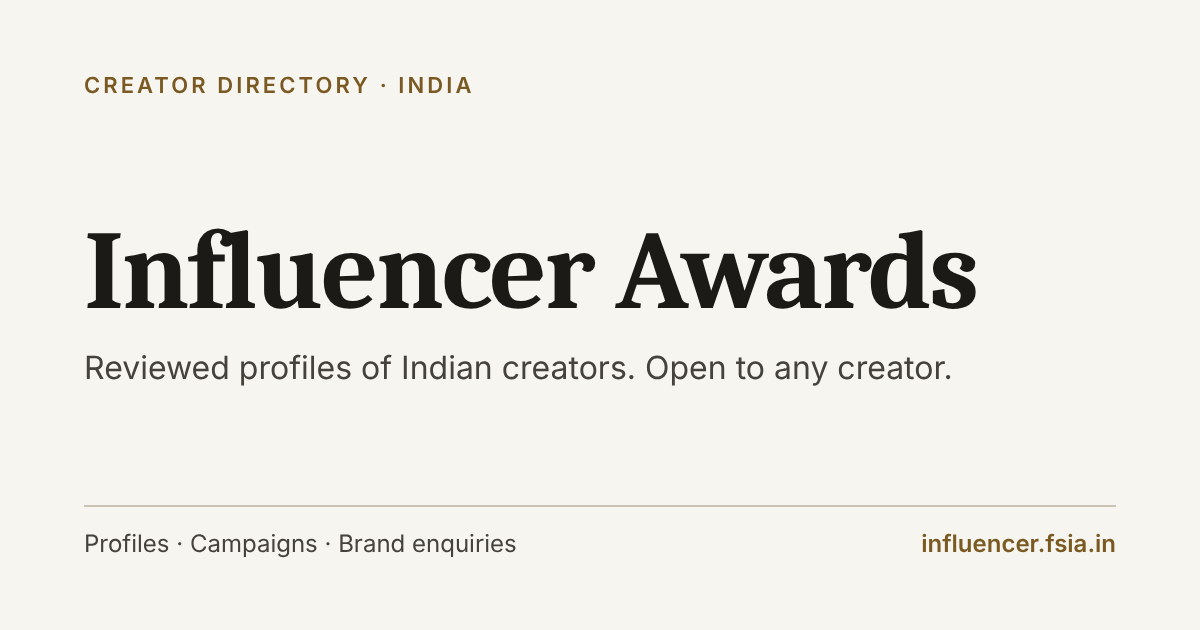
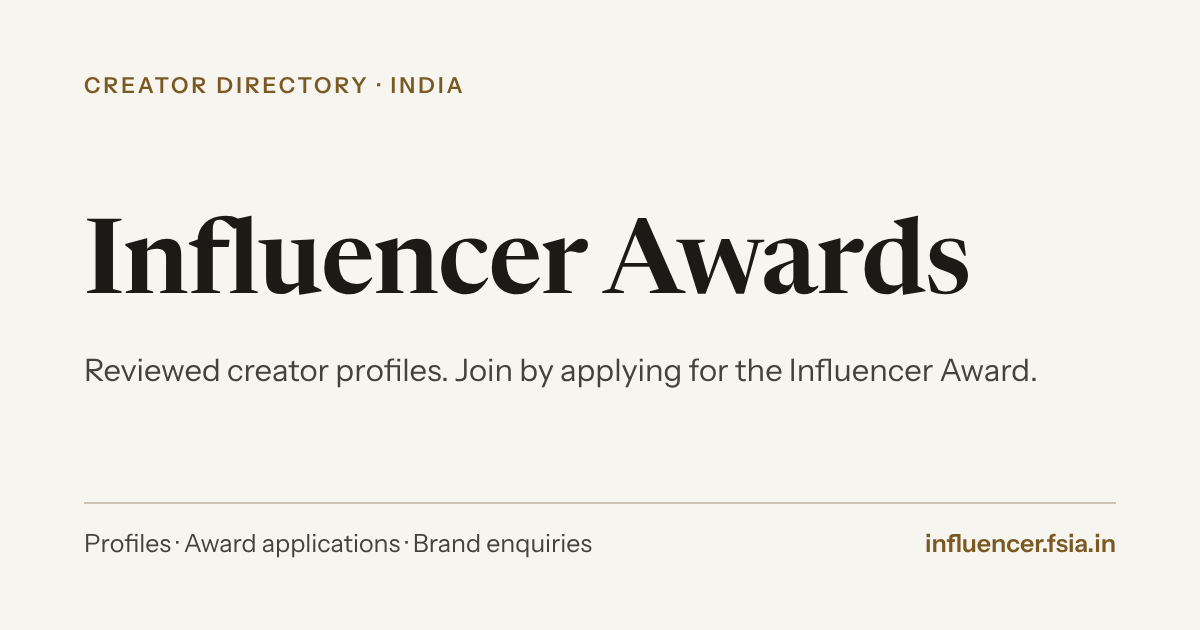
Join by applying for the Influencer Award
Boss (2026-10-27): creators join the platform by applying for the
Influencer Award; after the awards it opens to every creator.

- JOIN_RULE and APPLY_LABEL ("Apply for the award") in
  src/content/awards.ts, used by every join button and explanation
- Home, join page, Star India, directory, footer, FAQ, page titles
  and descriptions no longer say "any creator can join" or "you do
  not need the award"
- Contact topic "Award applications"; share image and settings
  subtitle updated
- Copy prepared and tested in the audit thread, merged with the
  polished layout

Claude-Session: https://claude.ai/code/session_01MeCksyHuGyuqhaMrwZFcmZ

diff --git a/src/components/HomeTab.tsx b/src/components/HomeTab.tsx
@@ -2,7 +2,7 @@ import React, { useMemo, useState } from "react";
 import { ArrowRight, Search } from "lucide-react";
 import { TabId } from "../seo";
 import { BRAND_NAME } from "../content/brand";
-import { AWARD, AWARD_NAME, AWARD_PERKS, ELIGIBLE_NICHES } from "../content/awards";
+import { APPLY_LABEL, AWARD, AWARD_NAME, AWARD_PERKS, ELIGIBLE_NICHES } from "../content/awards";
 import type { ProfileView } from "../lib/profile";
 import ProfileCard from "./ProfileCard";
 import Photo from "./Photo";
@@ -23,7 +23,7 @@ interface HomeTabProps {
 }
 
 const STEPS = [
-  { title: "A creator applies", text: "The form asks for their niche, city, audience figures, photos and contact details. Applying is free." },
+  { title: "A creator applies for the award", text: "The form asks for their niche, city, audience figures, photos and contact details. Applying is free." },
   { title: "Our team reviews it", text: "We read every application and check the creator's public social profiles before approving it." },
   { title: "The profile is published", text: "Approved creators appear in the directory with what they submitted. We do not add numbers or claims of our own." },
   { title: "Corrections are welcome", text: "Creators can ask us to update or remove their profile at any time through the contact page." }
@@ -107,8 +107,9 @@ export default function HomeTab({ profiles, status, onNavigate, onSelectProfile,
               Indian creators, reviewed by our team before they are listed
             </h1>
             <p className="lede max-w-xl">
-              {BRAND_NAME} is a public directory of creators from across India. Any creator can apply for a free profile, which
-              goes live once our team approves it. Brands browse by niche and city, then send us an enquiry.
+              Creators in India join {BRAND_NAME} by applying for the {AWARD_NAME}, and get a public profile once our team
+              approves it. Brands search the directory by niche and city and send us an enquiry. After the awards, the
+              platform opens to every creator.
             </p>
             <HeroSearch onBrowse={onBrowse} />
             <div className="flex flex-wrap items-center gap-x-6 gap-y-3 pt-1">
@@ -126,12 +127,12 @@ export default function HomeTab({ profiles, status, onNavigate, onSelectProfile,
         <div className="page grid md:grid-cols-2 md:divide-x divide-y md:divide-y-0 divide-line">
           <div className="py-8 md:py-10 md:pr-10 space-y-3">
             <h2 className="eyebrow">For creators</h2>
-            <p className="font-display text-[1.5rem] leading-snug text-ink">Get a free public profile that brands can find.</p>
+            <p className="font-display text-[1.5rem] leading-snug text-ink">Apply for the {AWARD_NAME} to join.</p>
             <p className="text-ink-2">
-              Apply in about two minutes. Our team reviews each application before it is published, and you can ask for changes at any time.
+              Applying is free and takes about two minutes. Our team reviews every application; approved creators get a public profile that brands can find.
             </p>
             <div className="flex flex-wrap items-center gap-x-6 gap-y-3 pt-1">
-              <TabLink tab="apply" onNavigate={onNavigate} className="btn btn-primary">Join as a creator</TabLink>
+              <TabLink tab="apply" onNavigate={onNavigate} className="btn btn-primary">{APPLY_LABEL}</TabLink>
               <TabLink tab="membership" onNavigate={onNavigate} className="link">Membership plans</TabLink>
             </div>
           </div>
@@ -259,8 +260,8 @@ export default function HomeTab({ profiles, status, onNavigate, onSelectProfile,
               Open to creators in {ELIGIBLE_NICHES.slice(0, -1).join(", ").toLowerCase()} and {ELIGIBLE_NICHES[ELIGIBLE_NICHES.length - 1].toLowerCase()}, among other niches.
             </p>
             <div className="flex flex-wrap gap-3 pt-2">
-              <button type="button" onClick={onAwardEnquiry} className="btn btn-primary">Ask about the award</button>
-              <TabLink tab="apply" onNavigate={onNavigate} className="btn btn-secondary">Join as a creator</TabLink>
+              <TabLink tab="apply" onNavigate={onNavigate} className="btn btn-primary">{APPLY_LABEL}</TabLink>
+              <button type="button" onClick={onAwardEnquiry} className="btn btn-secondary">Ask about the award</button>
             </div>
           </div>
           <dl className="border-t border-line">

diff --git a/src/seo.ts b/src/seo.ts
@@ -41,10 +41,10 @@ export const ROUTES: RouteMeta[] = [
     path: "/",
     title: `Influencer Award & Creator Profiles in India | ${SITE_NAME}`,
     description:
-      `Browse reviewed profiles of Indian influencers, join as a creator, learn about the ${AWARD_NAME}, and send brand collaboration enquiries to our team.`,
+      `Browse reviewed profiles of Indian influencers, apply for the ${AWARD_NAME} to join, and send brand collaboration enquiries to our team.`,
     heading: "Indian influencer profiles, reviewed before they are published",
     intro:
-      `${SITE_NAME} is a creator directory for India. Any creator can join: once our team approves the application, they get a public profile with their category, city and work. The ${AWARD_NAME} is a separate award that creators can apply for. Brands browse those profiles, see open campaigns and send collaboration enquiries, which our team follows up directly.`,
+      `${SITE_NAME} is a creator directory for India. Creators join by applying for the ${AWARD_NAME}: once our team approves the application, they get a public profile with their category, city and work. After the awards, the platform opens to every creator. Brands browse those profiles, see open campaigns and send collaboration enquiries, which our team follows up directly.`,
     indexable: true,
     priority: "1.0",
     changefreq: "weekly"
@@ -57,7 +57,7 @@ export const ROUTES: RouteMeta[] = [
       "An interactive 3D gallery of published creator profiles. Move between sections and open any profile.",
     heading: "3D profile gallery",
     intro:
-      "An interactive 3D view of the published creator profiles. Move between sections with the arrows and open any creator to see their profile and work.",
+      "An interactive 3D view of the published creator profiles. Move between sections with the arrows and open a portrait to see the profile and work.",
     indexable: true,
     priority: "0.6",
     changefreq: "weekly"
@@ -91,12 +91,12 @@ export const ROUTES: RouteMeta[] = [
   {
     tab: "apply",
     path: "/join/",
-    title: `Influencer Registration in India | ${SITE_NAME}`,
+    title: `${AWARD_NAME} Application & Registration | ${SITE_NAME}`,
     description:
-      "Join as a creator and get a public profile. A free, three-step form; our team reviews every application.",
-    heading: "Join as a creator",
+      `Apply for the ${AWARD_NAME} to join and get a public profile. A free, three-step form; our team reviews every application.`,
+    heading: `Apply for the ${AWARD_NAME}`,
     intro:
-      "Joining is free, open to any creator, and takes about two minutes. Tell us your category, city and audience on Instagram or YouTube. Our team reviews each application; approved creators get a public profile that brands can browse, and can apply for paid brand collaborations. Creators in fashion, beauty, food, travel, tech, gaming and other niches are welcome from anywhere in India.",
+      `Creators join by applying for the ${AWARD_NAME}; after the awards, the platform opens to every creator. Applying is free and takes about two minutes. Tell us your category, city and audience on Instagram or YouTube. Our team reviews each application; approved creators get a public profile that brands can browse, and can apply for paid brand collaborations. Creators in fashion, beauty, food, travel, tech, gaming and other niches are welcome from anywhere in India.`,
     indexable: true,
     priority: "0.9",
     changefreq: "monthly"

diff --git a/src/content/awards.ts b/src/content/awards.ts
@@ -3,14 +3,19 @@
 
 import { AWARD_NAME } from "./brand";
 
-// There is one award. It is separate from FSIA, and separate from joining the platform:
-// any creator can join and get a profile, with or without the award.
+// There is one award, separate from FSIA. For now creators join the platform by applying
+// for it (Boss, 2026-10-27); after the awards the platform opens to every creator.
 export { AWARD_NAME };
+
+/** How joining works right now. Used wherever the site explains who can join. */
+export const JOIN_RULE = `Creators join by applying for the ${AWARD_NAME}. After the awards, the platform opens to every creator.`;
+/** Label for every button and link that opens the application form (/join/) */
+export const APPLY_LABEL = "Apply for the award";
 
 export const AWARD = {
   name: AWARD_NAME,
   tagline: "India's award for influencers and digital creators",
-  text: "A separate award, open to creators in every niche. The jury looks at the quality of the work, the audience and its impact. You do not need the award to join the platform: any creator can create a profile."
+  text: "Open to creators in every niche. The jury looks at the quality of the work, the audience and its impact. Applying for the award is how creators join the platform for now: our team reviews every application, and approved creators get a public profile. After the awards, the platform opens to every creator."
 } as const;
 
 // Creator niches that can apply (these are not separate award categories)
@@ -36,8 +41,8 @@ export const AWARD_PERKS = [
 export const VALUE_FLOW = [
   {
     step: 1,
-    title: "Join the Platform",
-    text: `Any creator can join and get a profile. The ${AWARD_NAME} is separate.`
+    title: "Apply for the Award",
+    text: JOIN_RULE
   },
   {
     step: 2,
@@ -131,7 +136,7 @@ export const MAGAZINE_PACKAGES = [
 ] as const;
 
 export const CONTACT_TOPICS = [
-  "Awards & applications",
+  "Award applications",
   "Star India membership",
   "Magazine booking",
   "Brand deals",

diff --git a/src/content/faqs.ts b/src/content/faqs.ts
@@ -9,12 +9,12 @@ export interface FAQItem {
 export const FAQS: FAQItem[] = [
   {
     question: `What is ${BRAND_NAME}?`,
-    answer: `${BRAND_NAME} is a website for Indian creators and the brands that work with them. Any creator can join: once our team approves the application, they get a public profile. The ${AWARD_NAME} is separate, and you do not need it to join. Brands browse those profiles, see open campaigns and send collaboration enquiries, which our team follows up by email or phone.`,
+    answer: `${BRAND_NAME} is a website for Indian creators and the brands that work with them. Creators join by applying for the ${AWARD_NAME}: once our team approves the application, they get a public profile. After the awards, the platform opens to every creator. Brands browse those profiles, see open campaigns and send collaboration enquiries, which our team follows up by email or phone.`,
     category: "General"
   },
   {
     question: "How do I register as an influencer in India?",
-    answer: "Open the Apply page and complete the three-step form with your category, city, audience size, engagement rate and contact details. Registration is free and takes about two minutes. Our team reviews each application; once approved, your profile is published in the profile directory where brands look for influencers to hire, and you can apply for paid brand collaborations.",
+    answer: `Right now you register by applying for the ${AWARD_NAME}. Open the Apply page and complete the three-step form with your category, city, audience size, engagement rate and contact details. Registration is free and takes about two minutes. Our team reviews each application; once approved, your profile is published in the profile directory where brands look for influencers to hire, and you can apply for paid brand collaborations. After the awards, registration opens to every creator.`,
     category: "General"
   },
   {

diff --git a/src/components/SiteFooter.tsx b/src/components/SiteFooter.tsx
@@ -1,6 +1,7 @@
 import React from "react";
 import { routeForTab, TabId } from "../seo";
 import { BRAND_NAME, BRAND_DOMAIN } from "../content/brand";
+import { APPLY_LABEL } from "../content/awards";
 
 interface SiteFooterProps {
   footerText: string;
@@ -22,7 +23,7 @@ const GROUPS: { title: string; links: FooterLinkItem[] }[] = [
   {
     title: "For creators",
     links: [
-      { label: "Join as a creator", tab: "apply" },
+      { label: APPLY_LABEL, tab: "apply" },
       { label: "Membership plans", tab: "membership" },
       { label: "Open campaigns", tab: "campaigns" }
     ]
@@ -76,7 +77,7 @@ export default function SiteFooter({ footerText, onNavigate, onBrandEnquiry }: S
         <div className="col-span-2 lg:col-span-1 space-y-3 max-w-sm">
           <p className="flex items-center gap-2.5 font-display text-[1.375rem] text-white"><img src="/favicon.svg" alt="" width={28} height={28} className="w-7 h-7 rounded-[6px]" />{BRAND_NAME}</p>
           <p className="text-[0.9375rem] leading-relaxed text-[#CFCAC0]">
-            A directory of creator profiles from across India, open to any creator. Every profile is reviewed by our team before it is published.
+            A directory of creator profiles from across India. Creators join by applying for the award, and every profile is reviewed by our team before it is published.
           </p>
           <p className="text-[0.875rem] text-[#CFCAC0]">{BRAND_DOMAIN}</p>
         </div>

diff --git a/src/App.tsx b/src/App.tsx
@@ -20,6 +20,7 @@ import type { RosterStatus } from "./components/RosterNotice";
 import { Toaster } from "react-hot-toast";
 import { TabId, routeForPath, routeForTab, applyRouteMeta } from "./seo";
 import { BRAND_NAME } from "./content/brand";
+import { APPLY_LABEL } from "./content/awards";
 import { readableAccent } from "./lib/color";
 import { ProfileView, profilesFromSections } from "./lib/profile";
 import { PROFILE_PARAM, profileSlugFromLocation } from "./lib/profileLink";
@@ -230,7 +231,7 @@ export default function App() {
   const [directoryKey, setDirectoryKey] = useState(0);
 
   const askAboutAward = () => {
-    setContactTopic("Awards & applications");
+    setContactTopic("Award applications");
     navigateTo("contact");
   };
 
@@ -338,7 +339,7 @@ export default function App() {
               aria-current={activeTab === "apply" ? "page" : undefined}
               className="hidden sm:inline-flex btn btn-sm btn-primary"
             >
-              Join as a creator
+              {APPLY_LABEL}
             </a>
             <button
               type="button"
@@ -408,7 +409,7 @@ export default function App() {
                     }}
                     className="btn btn-primary"
                   >
-                    Join as a creator
+                    {APPLY_LABEL}
                   </a>
                   <button
                     type="button"

diff --git a/src/components/StarIndiaTab.tsx b/src/components/StarIndiaTab.tsx
@@ -5,12 +5,13 @@ import ProfileCard from "./ProfileCard";
 import TabLink from "./TabLink";
 import type { RosterStatus } from "./RosterNotice";
 import RosterNotice from "./RosterNotice";
+import { APPLY_LABEL, JOIN_RULE } from "../content/awards";
 
 const BENEFITS = [
   { title: "A public profile", text: "Your photo, niche, city, biography and work, in the directory brands use." },
   { title: "Branding and marketing help", text: "Support with your bio, media kit and digital marketing." },
   { title: "Brand introductions", text: "When a brand brief fits your niche and city, our team introduces you." },
-  { title: "Open to any creator", text: "You do not need to win an award to become a member." }
+  { title: "How to join", text: JOIN_RULE }
 ];
 
 export default function StarIndiaTab({
@@ -36,7 +37,7 @@ export default function StarIndiaTab({
           <h1 className="h-page">{route.heading}</h1>
           <p className="lede">{route.intro}</p>
           <div className="flex flex-wrap gap-3 pt-2">
-            <TabLink tab="apply" onNavigate={onNavigate} className="btn btn-primary">Join as a creator</TabLink>
+            <TabLink tab="apply" onNavigate={onNavigate} className="btn btn-primary">{APPLY_LABEL}</TabLink>
             <TabLink tab="membership" onNavigate={onNavigate} className="btn btn-secondary">Membership plans</TabLink>
           </div>
         </header>

diff --git a/src/components/DirectoryTab.tsx b/src/components/DirectoryTab.tsx
@@ -5,6 +5,7 @@ import type { ProfileView } from "../lib/profile";
 import ProfileCard from "./ProfileCard";
 import type { RosterStatus } from "./RosterNotice";
 import RosterNotice from "./RosterNotice";
+import { APPLY_LABEL, JOIN_RULE } from "../content/awards";
 
 interface DirectoryTabProps {
   key?: React.Key;
@@ -183,9 +184,9 @@ export default function DirectoryTab({ profiles, status, onSelectProfile, onAppl
       <aside className="mt-16 grid gap-6 md:grid-cols-[1fr_auto] items-center border-t border-line pt-8">
         <div className="space-y-1">
           <h2 className="font-display text-[1.375rem] text-ink">Are you a creator?</h2>
-          <p className="text-ink-2">Any creator can join. It is free, and our team reviews every application.</p>
+          <p className="text-ink-2">{JOIN_RULE} Applying is free, and our team reviews every application.</p>
         </div>
-        <button type="button" onClick={onApply} className="btn btn-primary justify-self-start">Join as a creator</button>
+        <button type="button" onClick={onApply} className="btn btn-primary justify-self-start">{APPLY_LABEL}</button>
       </aside>
     </div>
   );

diff --git a/src/components/ContactTab.tsx b/src/components/ContactTab.tsx
@@ -5,7 +5,7 @@ import EnquiryForm from "./EnquiryForm";
 import TabLink from "./TabLink";
 
 const HELP: { topic: string; text: string }[] = [
-  { topic: "Awards & applications", text: "Eligibility, how to apply and where your application stands." },
+  { topic: "Award applications", text: "Eligibility, how to apply and where your application stands." },
   { topic: "Star India membership", text: "Your profile and member support." },
   { topic: "Magazine booking", text: "Explore Magazine covers, features and digital spotlights." },
   { topic: "Brand deals", text: "Hiring creators for a campaign." },

diff --git a/src/components/ModelRegistrationTab.tsx b/src/components/ModelRegistrationTab.tsx
@@ -232,7 +232,7 @@ export default function ModelRegistrationTab() {
   return (
     <div className="page pb-16" id="influencer-registration-tab-container">
       <header className="max-w-3xl space-y-3 pt-10 md:pt-14 pb-10">
-        <p className="eyebrow">Creator application</p>
+        <p className="eyebrow">Award application</p>
         <h1 className="h-page">{routeForTab("apply").heading}</h1>
         <p className="lede">{routeForTab("apply").intro}</p>
         <p className="text-[0.9375rem] text-ink-2">

diff --git a/server/db.ts b/server/db.ts
@@ -483,7 +483,7 @@ const INITIAL_LOGS: AdminLog[] = [
 export const DEFAULT_SETTINGS: SystemSettings = {
   websiteTitle: "Influencer Awards",
   heroTitle: "INFLUENCER AWARDS",
-  heroSubtitle: "Reviewed profiles of Indian creators, open to any creator, and brand enquiries.",
+  heroSubtitle: "Reviewed profiles of Indian creators, Influencer Award applications and brand enquiries.",
   ctaText: "BROWSE PROFILES",
   footerText: "© 2026 Influencer Awards. All rights reserved.",
   logoUrl: "",

diff --git a/docs/POLISH-2026-10-26.md b/docs/POLISH-2026-10-26.md
@@ -51,3 +51,9 @@ Not verified: the Vercel preview of this branch (the sandbox cannot open vercel.
 2. **Sample campaigns** (Sabyasachi, Taj, Vogue India, OnePlus) and **membership plans** that promise "verification badges", "guaranteed" pitches and escrow. These come from the database. Edit or delete them in Admin.
 3. A creator's own niche from the application is not saved on the public profile; the category shown is the gallery section the admin picks. Saving the niche would need an API change.
 4. Final site and award names, privacy policy and terms, and a public contact email (unchanged from the earlier list).
+
+## Update, 27 October 2026
+
+- **One award only** (Boss): the old section names now show as Fashion & Modelling, Social Impact and Lifestyle & Design, and "Winner / Runner Up, Miss India" titles as "Fashion creator". Sample data and seeds are renamed; stored data is renamed only in public API responses (`server/db.ts`, `php-backend/api/lib/helpers.php`).
+- **Joining goes through the award** (Boss): creators join by applying for the Influencer Award; after the awards the platform opens to every creator. One sentence (`JOIN_RULE`) and one button label (`APPLY_LABEL`, "Apply for the award") in `src/content/awards.ts` are used everywhere. Copy prepared and tested by the audit thread, merged here. The share image (`public/og-image.png`) no longer says "Open to any creator".
+- Checks: `npm test` pass; build pass; journeys 180/180 (one earlier run had a single failure in the campaign form that did not repeat); audit 474/486, with the same 12 network-only failures.
